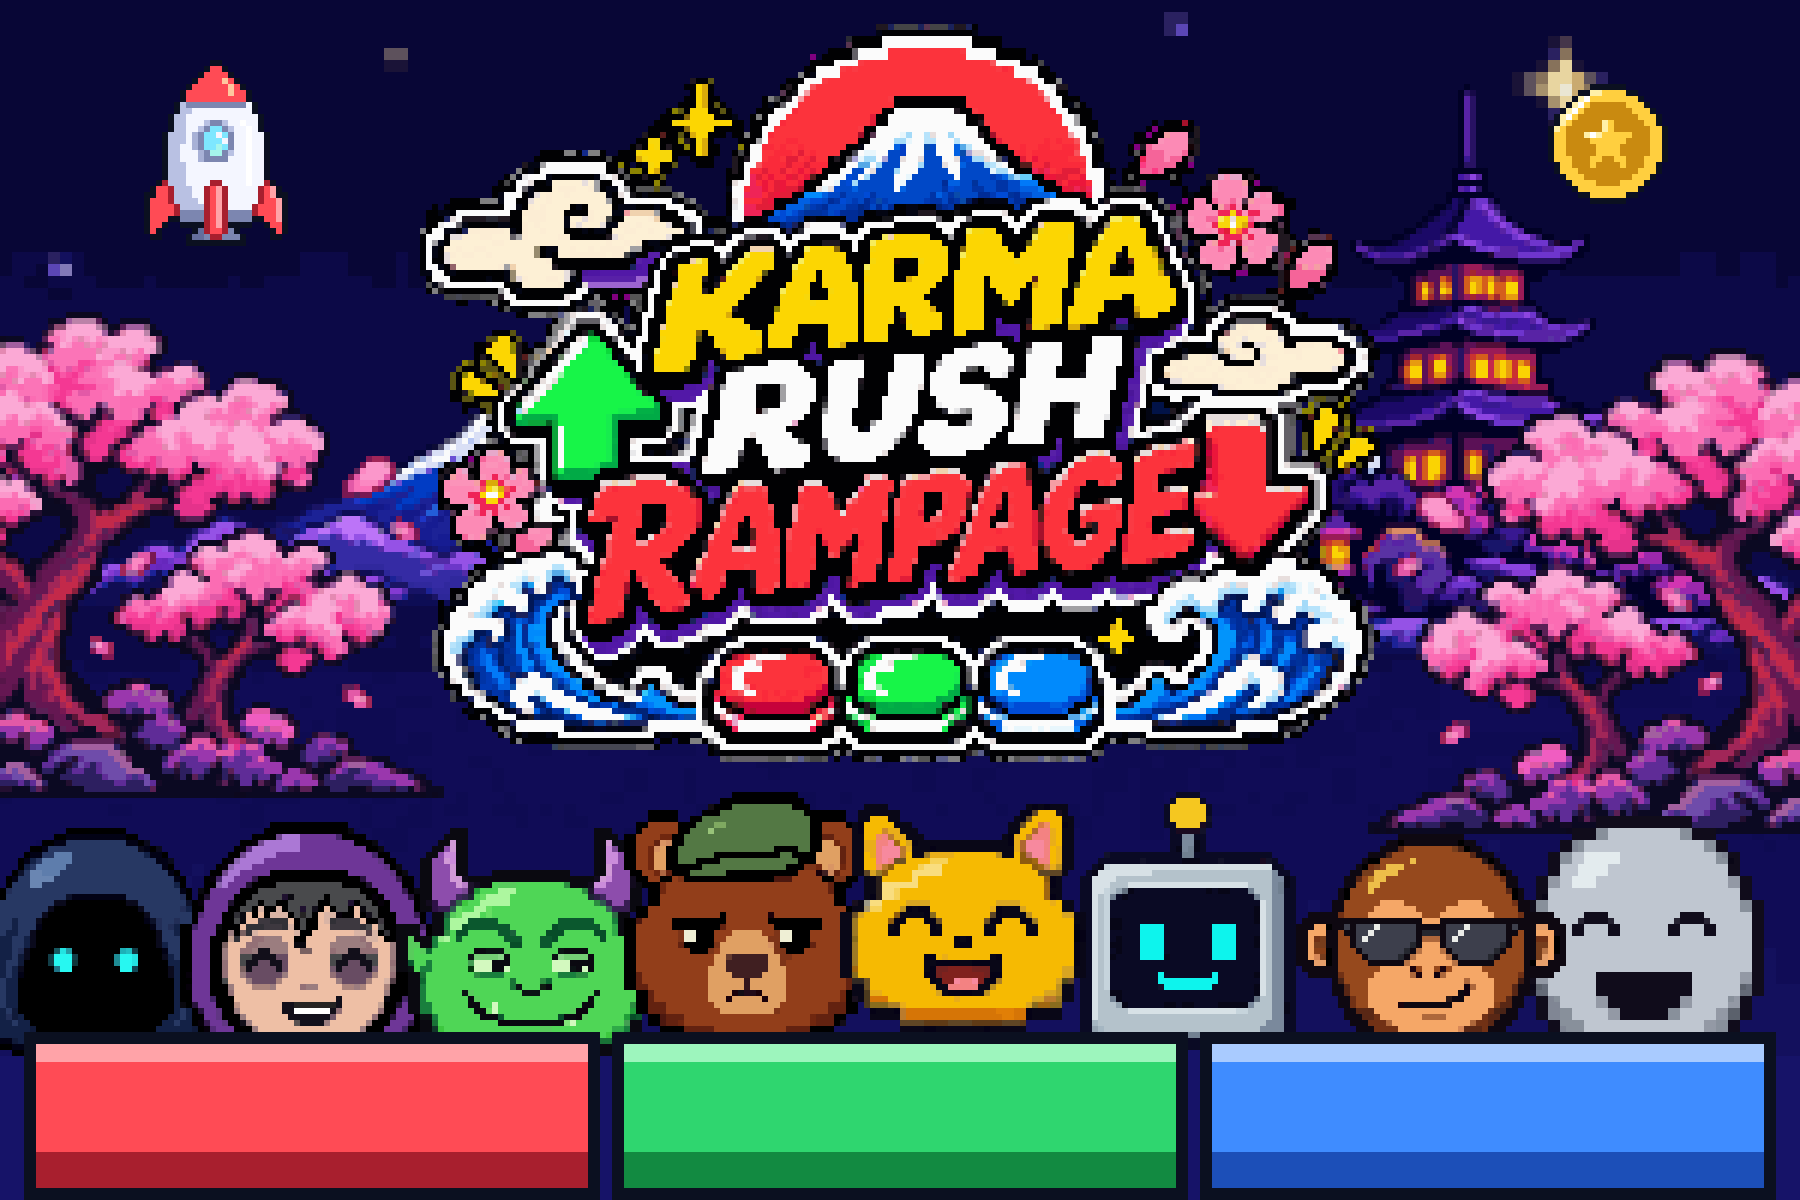
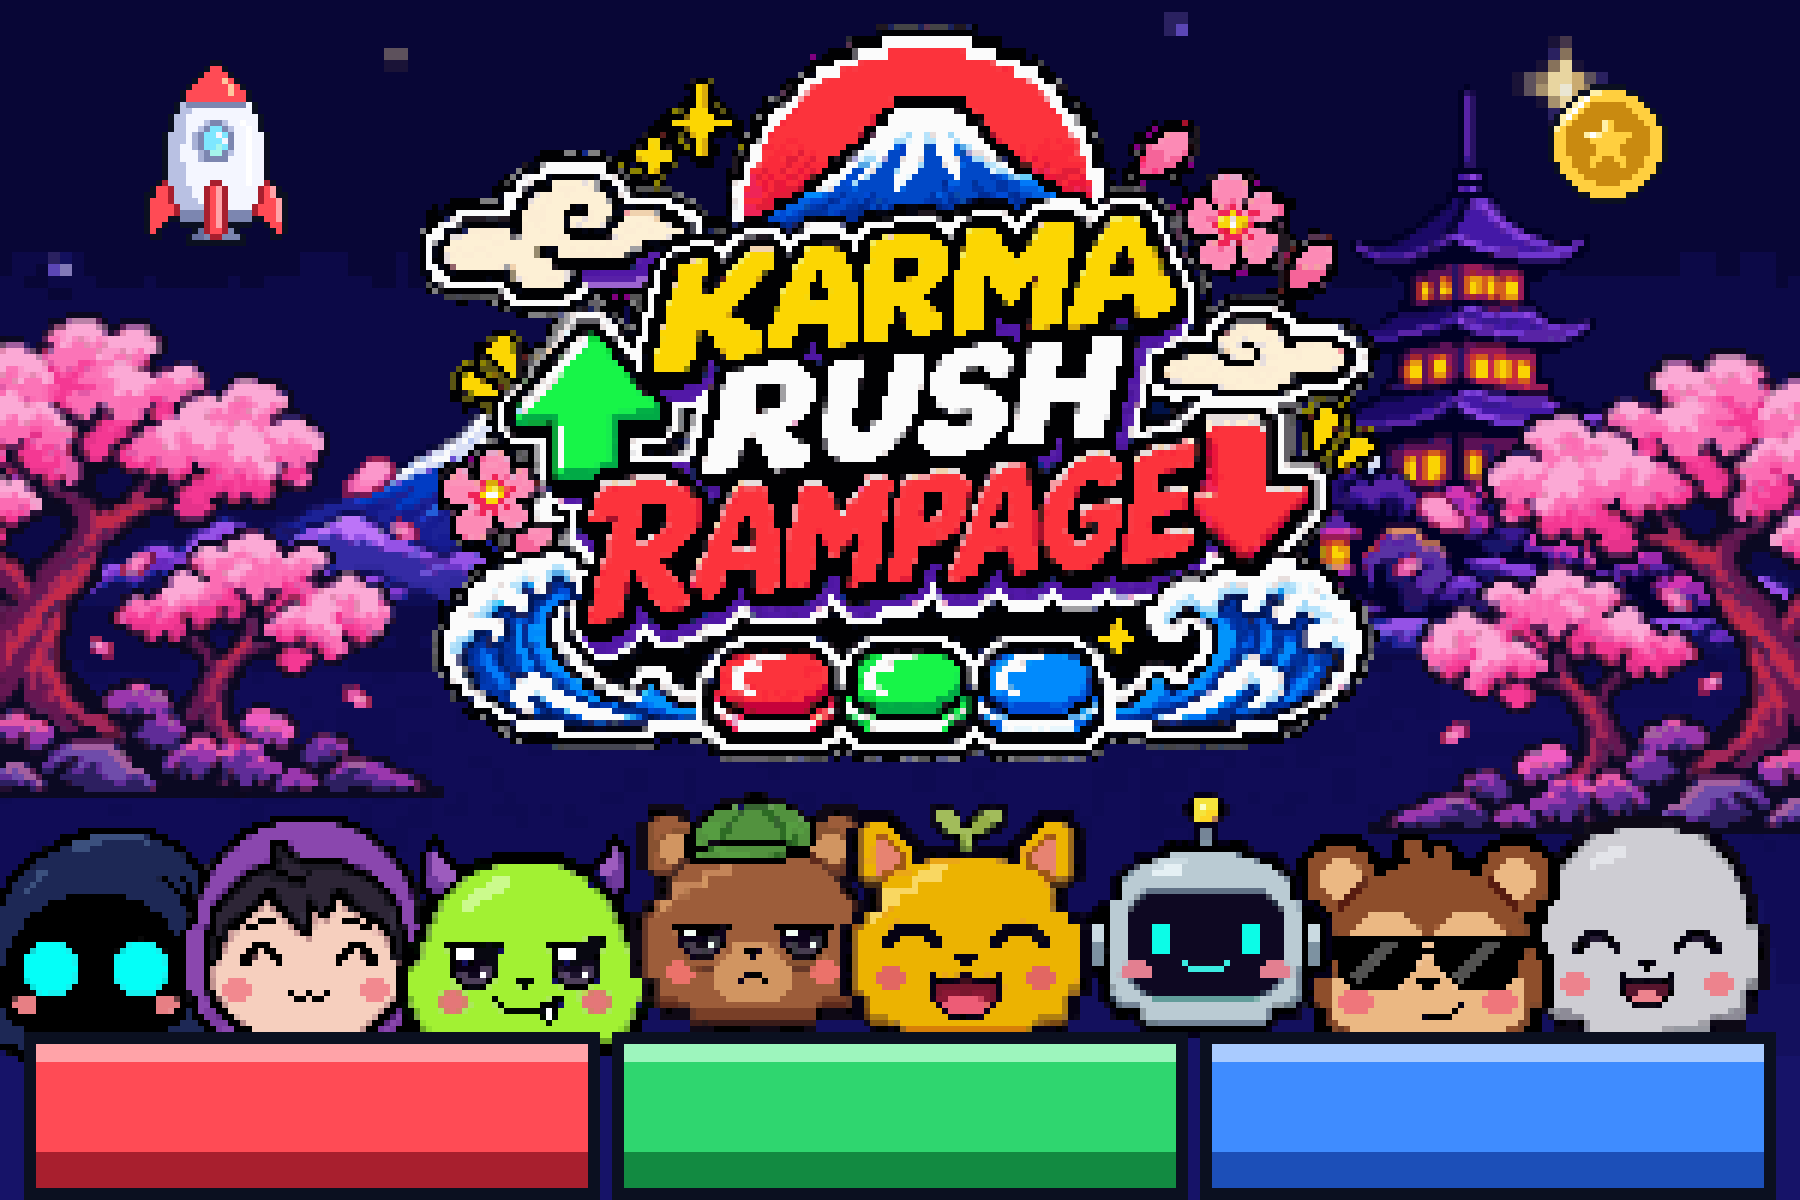
Japanese-cute cast, complete: all eight characters redrawn
The Troll and the Lurker join the six from the last build, with OP's calm
face and Mod Bear's resting face. Every mood of a character shares one head
shape; the Lurker's hood is identical across moods with only the eyes
changing. Thumbnail re-rendered with the new cast.

Claude-Session: https://claude.ai/code/session_01S8p8vF8rwDZGPiwSDYv6n2

Changed region(s): [[0.0, 0.6475, 0.9956, 0.8942]]

diff --git a/src/client/kit/cast.ts b/src/client/kit/cast.ts
@@ -51,8 +51,8 @@ const DRAWN: Partial<Record<Who, { w: number; h: number; faces: string[]; mood: 
     faces: ['idle', 'happy', 'wink', 'calm', 'sad', 'shock', 'angry'],
     mood: { idle: 'idle', peep: 'idle', talk: 'happy', happy: 'happy', cool: 'wink', wink: 'wink', sleep: 'calm', sad: 'sad', dead: 'sad', shock: 'shock', angry: 'angry' },
   },  troll: {
-    w: 45,
-    h: 43,
+    w: 43,
+    h: 40,
     faces: ['idle', 'happy', 'angry', 'shock', 'sad'],
     mood: { idle: 'idle', peep: 'idle', wink: 'idle', cool: 'idle', talk: 'happy', happy: 'happy', angry: 'angry', shock: 'shock', sad: 'sad', dead: 'sad', sleep: 'sad' },
   },
@@ -69,7 +69,7 @@ const DRAWN: Partial<Record<Who, { w: number; h: number; faces: string[]; mood: 
     mood: { idle: 'idle', peep: 'idle', sleep: 'idle', cool: 'cool', wink: 'cool', talk: 'happy', happy: 'happy', sad: 'sad', dead: 'sad', shock: 'sad', angry: 'sad' },
   },
   lurker: {
-    w: 44,
+    w: 45,
     h: 40,
     faces: ['idle', 'peep', 'shock', 'happy'],
     mood: { idle: 'idle', talk: 'idle', peep: 'peep', angry: 'peep', sad: 'peep', dead: 'peep', sleep: 'peep', cool: 'happy', happy: 'happy', wink: 'happy', shock: 'shock' },

diff --git a/src/client/main.ts b/src/client/main.ts
@@ -69,7 +69,7 @@ function setPads(labels: [string, string, string], actions?: ((() => void) | nul
 
 const held = [false, false, false];
 /** Shown on the menu so a tester can tell which build they are looking at. */
-const BUILD = 72;
+const BUILD = 73;
 let dayLine = '';
 /** The menu's status line, with the audio state so "no sound" can be told apart by cause. */
 function paintStatus() {

diff --git a/CLAUDE.md b/CLAUDE.md
@@ -43,8 +43,16 @@ folder (an exact whole-number enlargement): `python3 tools/sf-exact.py preview.p
 turns one back into the sprite.
 `generate_sprites_in_style` with an existing piece as the reference keeps the look, and
 its nine options usually include several usable expressions of the same character;
-`edit_sprite` on the chosen one gives the rest. OP the cat was made this way
-(`src/client/kit/art/op-*.png`, wired through `DRAWN` in `src/client/kit/cast.ts`).
+`edit_sprite` on the chosen one gives the rest. The cast was made this way
+(`src/client/kit/art/<who>-<face>.png`, wired through `DRAWN` in `src/client/kit/cast.ts`).
+The cast's look is Japanese-cute: a round squishy head, big sparkly eyes set low and wide,
+a tiny mouth, blush cheeks, flat colour with almost no shading, black outline. The owner
+found the earlier, more detailed faces "too illustrative". OP the cat (it has a leaf
+sprout) is the style reference for anything new. All of one character's faces share one
+canvas size, because each is stretched to the same box.
+If a request times out, its results are usually saved anyway: find them with `list_assets`,
+and fetch each with the free `snap_to_palette` (`max_colors: 256`), since the media host is
+not reachable from a cloud session.
 
 Props (coin, rocket, cake, the per-game objects) are drawn too. A PNG in `art/sprites/`
 replaces the hand-typed placeholder sprite of the same name everywhere the game draws it,
